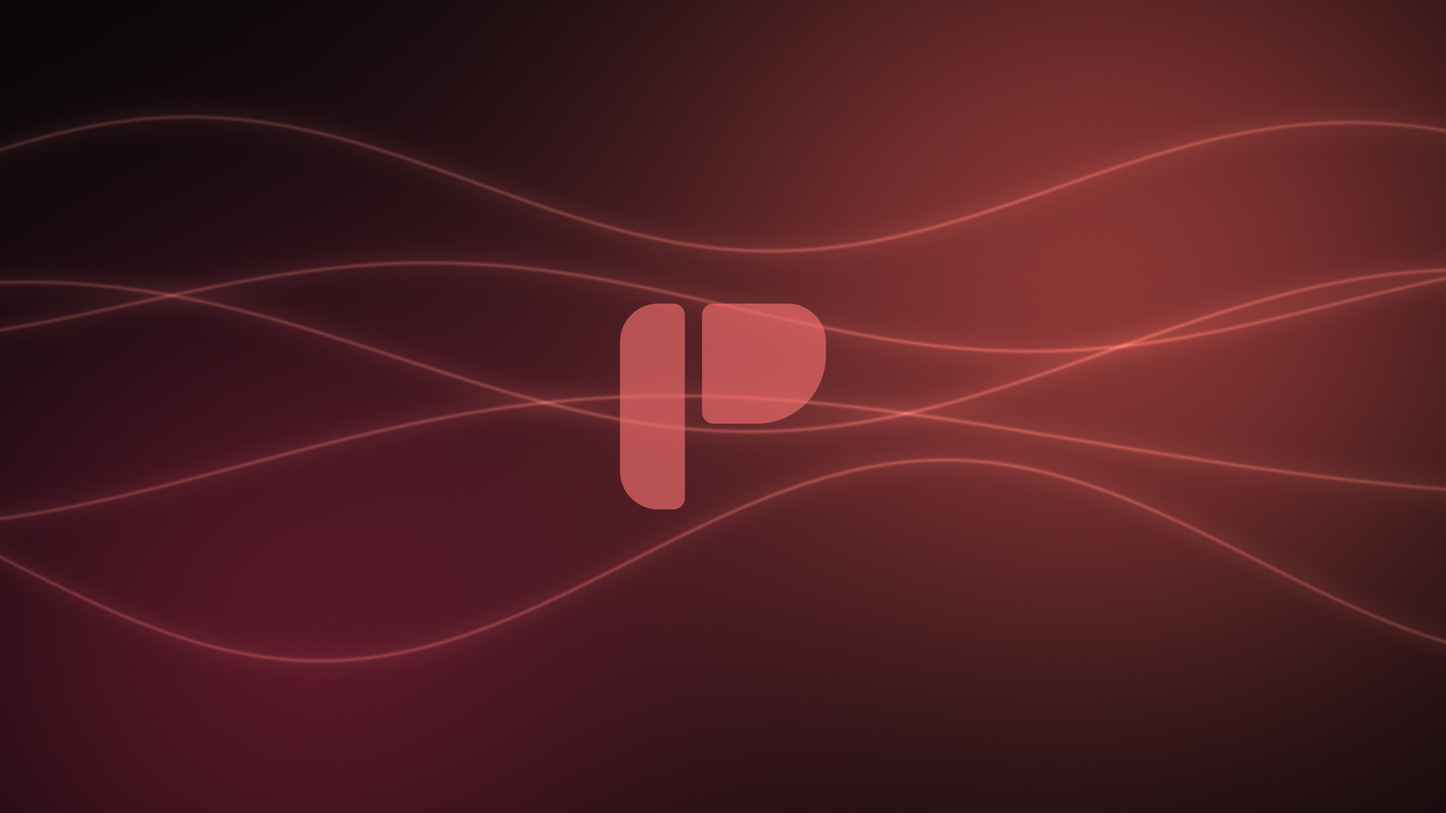
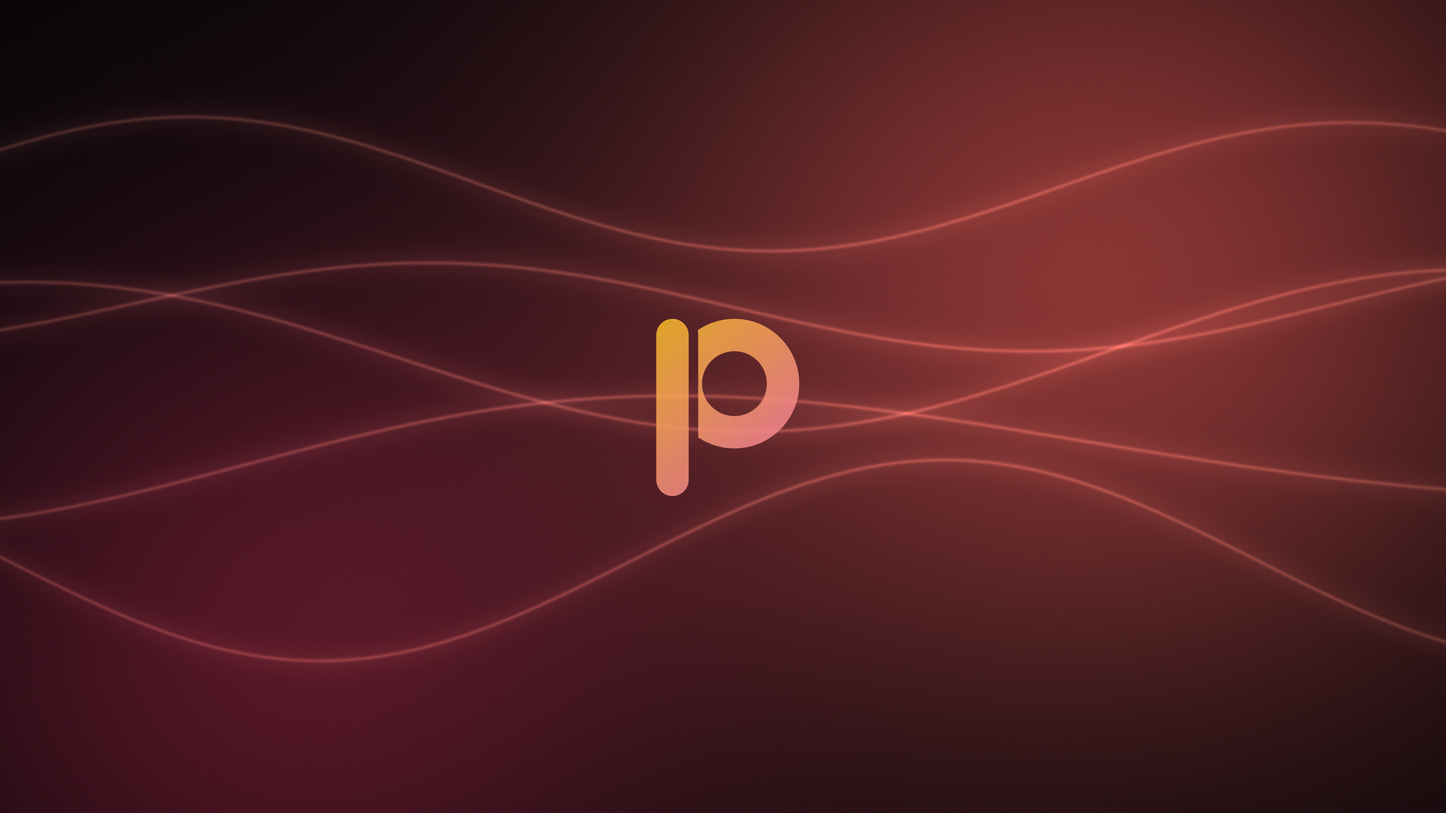
brand: Orbit P (concept D) is the Prime Linux emblem; official mark in the Sunset gradient
Owner's choice. brand-mark.svg = Sunset (#fbbf24 → #f472b6, one continuous
gradient); mark.svg = single-colour desktop copy recoloured to the user's
accent by prime-theme. Emblem wallpaper rebuilt with the brand mark.
Decision + usage recorded in layer/branding/BRAND.md.

Changed region(s): [[0.4062, 0.3722, 0.5938, 0.6514]]

diff --git a/tools/make-wallpapers.py b/tools/make-wallpapers.py
@@ -47,16 +47,16 @@ def render(name, w, h, seed):
 
 
 def emblem(w, h, out):
-    """prime-emblem: the Split-tile emblem, large and quiet, over a deep red bloom."""
+    """prime-emblem: the Orbit P brand mark (Sunset), large and quiet, over a deep red bloom."""
     import subprocess, tempfile
     base = render("prime-ember", w, h, 7)
-    mark = os.path.join(os.path.dirname(__file__), "..", "layer", "branding", "mark.svg")
+    mark = os.path.join(os.path.dirname(__file__), "..", "layer", "branding", "brand-mark.svg")
     size = int(h * 0.30)
     with tempfile.NamedTemporaryFile(suffix=".png") as t:
         subprocess.run(["magick", "-background", "none", "-density", "600", mark,
                         "-resize", f"{size}x{size}", t.name], check=True)
         m = Image.open(t.name).convert("RGBA")
-        alpha = m.getchannel("A").point(lambda v: int(v * 0.62))
+        alpha = m.getchannel("A").point(lambda v: int(v * 0.85))
         m.putalpha(alpha)
         img = base.convert("RGBA")
         img.alpha_composite(m, ((w - size) // 2, (h - size) // 2))
@@ -68,18 +68,14 @@ def main():
     ap = argparse.ArgumentParser()
     ap.add_argument("--out", default=os.path.join(os.path.dirname(__file__), "..", "layer", "wallpapers"))
     ap.add_argument("--size", default="3840x2160")
-    ap.add_argument("--only", help="build just this one (e.g. prime-emblem, prime-daylight)")
     a = ap.parse_args()
     w, h = map(int, a.size.split("x"))
     os.makedirs(a.out, exist_ok=True)
     for i, name in enumerate(SETS):
-        if a.only and a.only != name:
-            continue
         p = os.path.join(a.out, f"{name}.jpg")
         render(name, w, h, 1000 + i).save(p, quality=92, subsampling=0, optimize=True)
         print(p, os.path.getsize(p) // 1024, "KiB")
-    if not a.only or a.only == "prime-emblem":
-        emblem(w, h, os.path.join(a.out, "prime-emblem.jpg"))
+    emblem(w, h, os.path.join(a.out, "prime-emblem.jpg"))
 
 
 if __name__ == "__main__":

diff --git a/layer/branding/BRAND.md b/layer/branding/BRAND.md
@@ -1,0 +1,13 @@
+# Prime Linux brand
+
+**Decided 2026-10-01 by the owner:** the emblem is **concept D, "Orbit P"** (a ring + stem P),
+and the official brand colour is the **Sunset gradient**: `#fbbf24` (amber) → `#f472b6` (pink),
+diagonal top-left to bottom-right.
+
+| File | Use |
+|---|---|
+| `brand-mark.svg` | Official mark, Sunset gradient — website, installer, boot splash, login screen, docs, social |
+| `mark.svg` | Desktop copy, single colour `#f87171`; `prime-theme` recolours it to each user's accent (bar logo, lock screen, app icon) |
+
+Rejected: the faceted shield (v1), and concepts A, B, C, E, F from `concepts-sheet.png`.
+Still to do: wordmark/lockup using this mark, symbolic (monochrome) version, boot/login themes in Sunset.
